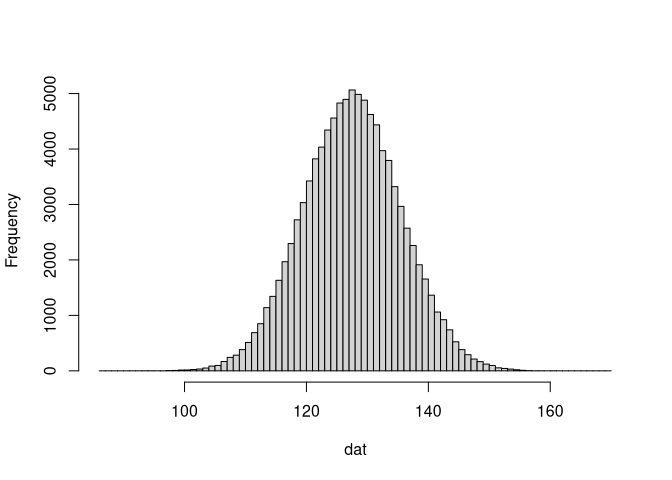
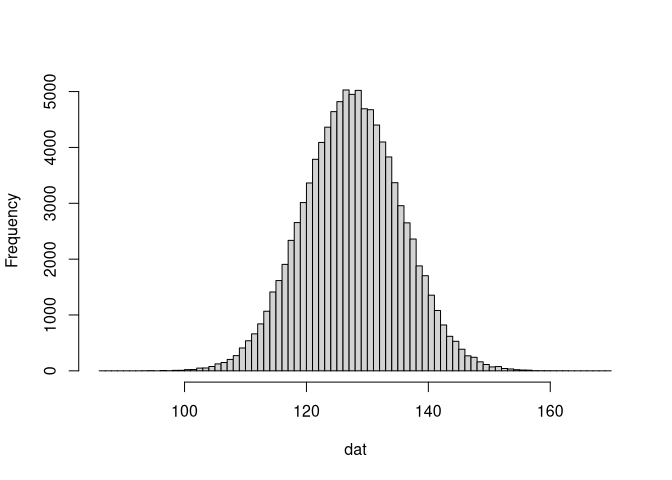
docs: Rebuild README.md

diff --git a/README.md b/README.md
@@ -66,10 +66,10 @@ to reproduce the run.
 ``` r
 #!/usr/bin/env -S Rscript --vanilla
 ironseed::ironseed("Experiment", 20251031, 1)
-#> ** Ironseed v0.3.0: SetSeed L1S8a59jKMV-MXX2GrS1hrQ-nYwzqL14Rb2-yiBwupsfZUf
+#> ** Ironseed v0.3.0.9000: SetSeed yfTKf9T7KFN-VLKTv4yau2T-GuVxnozmdzS-xQuuK7u3rzG
 runif(10)
-#>  [1] 0.20771860 0.05685812 0.46064640 0.03253283 0.21827857 0.23708437
-#>  [7] 0.09678753 0.93051076 0.68834723 0.70048683
+#>  [1] 0.2260858 0.3481706 0.5172803 0.3832012 0.1827760 0.8723424 0.6730044
+#>  [8] 0.3852536 0.4705795 0.9423817
 ```
 
 If your script is intended to be called multiple times as part of a
@@ -79,10 +79,10 @@ large study, you can also seed based on the command line arguments.
 #!/usr/bin/env -S Rscript --vanilla
 args <- commandArgs(trailingOnly = TRUE)
 ironseed::ironseed("A Simulation Script 1", args)
-#> ** Ironseed v0.3.0: SetSeed aGTMGJZrmQb-MmRAwvmajQ1-pEAyRkyfSWR-XvjHyVajxJW
+#> ** Ironseed v0.3.0.9000: SetSeed se9fSTm1mSj-ezcAxkSKY4V-5X2ev6J1VKD-g6pqoyWeyLA
 runif(10)
-#>  [1] 0.1990489 0.7884689 0.2698110 0.4761755 0.4127876 0.2025955 0.6249008
-#>  [8] 0.9778754 0.8534247 0.3009149
+#>  [1] 0.4991457 0.1834726 0.1777406 0.8805143 0.0385879 0.2986159 0.7935945
+#>  [8] 0.9421019 0.8711483 0.6693841
 ```
 
 Specific command line arguments can also be used. For large, nested
@@ -93,10 +93,10 @@ seeds. Ironseed makes this easy to accomplish.
 #!/usr/bin/env -S Rscript --vanilla
 args <- commandArgs(trailingOnly = TRUE)
 ironseed::ironseed("A Simulation Script 2", args[grepl("--seed=", args)])
-#> ** Ironseed v0.3.0: SetSeed KnabwooccdH-Fr7UKEkKauC-MGJNQ4AjqDN-SnKkDqUT8Ch
+#> ** Ironseed v0.3.0.9000: SetSeed eYuDcADGbbJ-eA5GJ5zwQyR-rGsw8ddnJnL-Mg2WZhg2d6a
 runif(10)
-#>  [1] 0.03714270 0.58069848 0.86104299 0.01920254 0.71453447 0.95131078
-#>  [7] 0.42456432 0.68626742 0.58047906 0.87471196
+#>  [1] 0.7958163 0.4926650 0.9251130 0.5141941 0.3154608 0.2950173 0.6033356
+#>  [8] 0.6048982 0.7448672 0.2704294
 ```
 
 ### Automatic Seeding
@@ -108,15 +108,15 @@ occurs if no data is passed to `ironseed()`.
 ``` r
 #!/usr/bin/env -S Rscript --vanilla
 ironseed::ironseed()
-#> ** Ironseed v0.3.0: SetSeed MMP7kaVgit3-fdj8mH2Yuvb-XP4HvV9Z11e-tMES5isR5we
+#> ** Ironseed v0.3.0.9000: SetSeed fg79wLi2JWf-rnfWcXpM4b8-ReVLupcewpA-h1YGhTfv5WP
 runif(10)
-#>  [1] 0.1709656 0.9549136 0.9939423 0.7165402 0.9792717 0.5409108 0.4919766
-#>  [8] 0.9735896 0.2513371 0.2296586
+#>  [1] 0.01171726 0.67949220 0.40656326 0.11096005 0.88994860 0.63374079
+#>  [7] 0.53135218 0.38782031 0.11618916 0.36079770
 
 # Access the ironseed that was used for RNG seeding.
 fe <- ironseed::get_ironseed()
 fe
-#> Ironseed: MMP7kaVgit3-fdj8mH2Yuvb-XP4HvV9Z11e-tMES5isR5we
+#> Ironseed: fg79wLi2JWf-rnfWcXpM4b8-ReVLupcewpA-h1YGhTfv5WP
 ```
 
 Or achieving the same thing with one call. Note that the automatically
@@ -125,12 +125,12 @@ generated seed is different from the previous run.
 ``` r
 #!/usr/bin/env -S Rscript --vanilla
 fe <- ironseed::ironseed()
-#> ** Ironseed v0.3.0: SetSeed XHtfF9L8fZ5-363rX2NV41B-Gu2D9ba1eNX-aqmBpurYLje
+#> ** Ironseed v0.3.0.9000: SetSeed PbfwvvnYfcb-aeBe9WsroiC-Fx5Pd7btWdP-DeFk4mTFVNg
 runif(10)
-#>  [1] 0.48126361 0.86350382 0.62432849 0.58320541 0.02967282 0.21307074
-#>  [7] 0.03946363 0.57550078 0.85126966 0.99778787
+#>  [1] 0.76992907 0.06944827 0.80863304 0.43426548 0.39184419 0.24245084
+#>  [7] 0.85808327 0.81476562 0.17417317 0.80105155
 fe
-#> Ironseed: XHtfF9L8fZ5-363rX2NV41B-Gu2D9ba1eNX-aqmBpurYLje
+#> Ironseed: PbfwvvnYfcb-aeBe9WsroiC-Fx5Pd7btWdP-DeFk4mTFVNg
 ```
 
 ### Reproducible Code
@@ -142,10 +142,10 @@ used, and the previously generated seed has been logged.
 ``` r
 #!/usr/bin/env -S Rscript --vanilla
 ironseed::ironseed("RW7vjwjeiHF-QG7RYPvrntR-6tGPoi65sVc-N1n5SQi5RH4")
-#> ** Ironseed v0.3.0: SetSeed RW7vjwjeiHF-QG7RYPvrntR-6tGPoi65sVc-N1n5SQi5RH4
+#> ** Ironseed v0.3.0.9000: SetSeed RW7vjwjeiHF-QG7RYPvrntR-6tGPoi65sVc-N1n5SQi5RH4
 runif(10)
-#>  [1] 0.89365116 0.02137079 0.95990727 0.17105063 0.59927593 0.98808313
-#>  [7] 0.97298012 0.62492468 0.28697049 0.14086705
+#>  [1] 0.94599170 0.35915110 0.75821589 0.91682672 0.62340399 0.19037716
+#>  [7] 0.44812890 0.09635376 0.19137057 0.24622360
 ```
 
 ## Analysis
@@ -184,13 +184,13 @@ dat <- sapply(z, \(a) sum(intToBits(a$x) != intToBits(a$y)))
 
 ``` r
 mean(dat) # expectation: 128
-#> [1] 127.9878
+#> [1] 128.0009
 sd(dat) # expectation: 8
-#> [1] 8.025923
+#> [1] 8.01368
 hist(dat, breaks = 86:170, main = NULL)
 ```
 
-<img src="man/figures/README-analysis_32-1.png" width="100%" />
+<img src="man/figures/README-analysis_32-1.png" alt="" width="100%" />
 
 We will repeat the same analysis for 256-bit inputs.
 
@@ -199,12 +199,12 @@ set.seed(20251221)
 z <- replicate(100000, rand_fe_pair(256), simplify = FALSE)
 dat <- sapply(z, \(a) sum(intToBits(a$x) != intToBits(a$y)))
 mean(dat) # expectation: 128
-#> [1] 127.955
+#> [1] 128.0145
 sd(dat) # expectation: 8
-#> [1] 7.980782
+#> [1] 8.005008
 hist(dat, breaks = 86:170, main = NULL)
 ```
 
-<img src="man/figures/README-analysis_256-1.png" width="100%" />
+<img src="man/figures/README-analysis_256-1.png" alt="" width="100%" />
 
 As one can see, the avalanche behavior of the input hash is excellent.